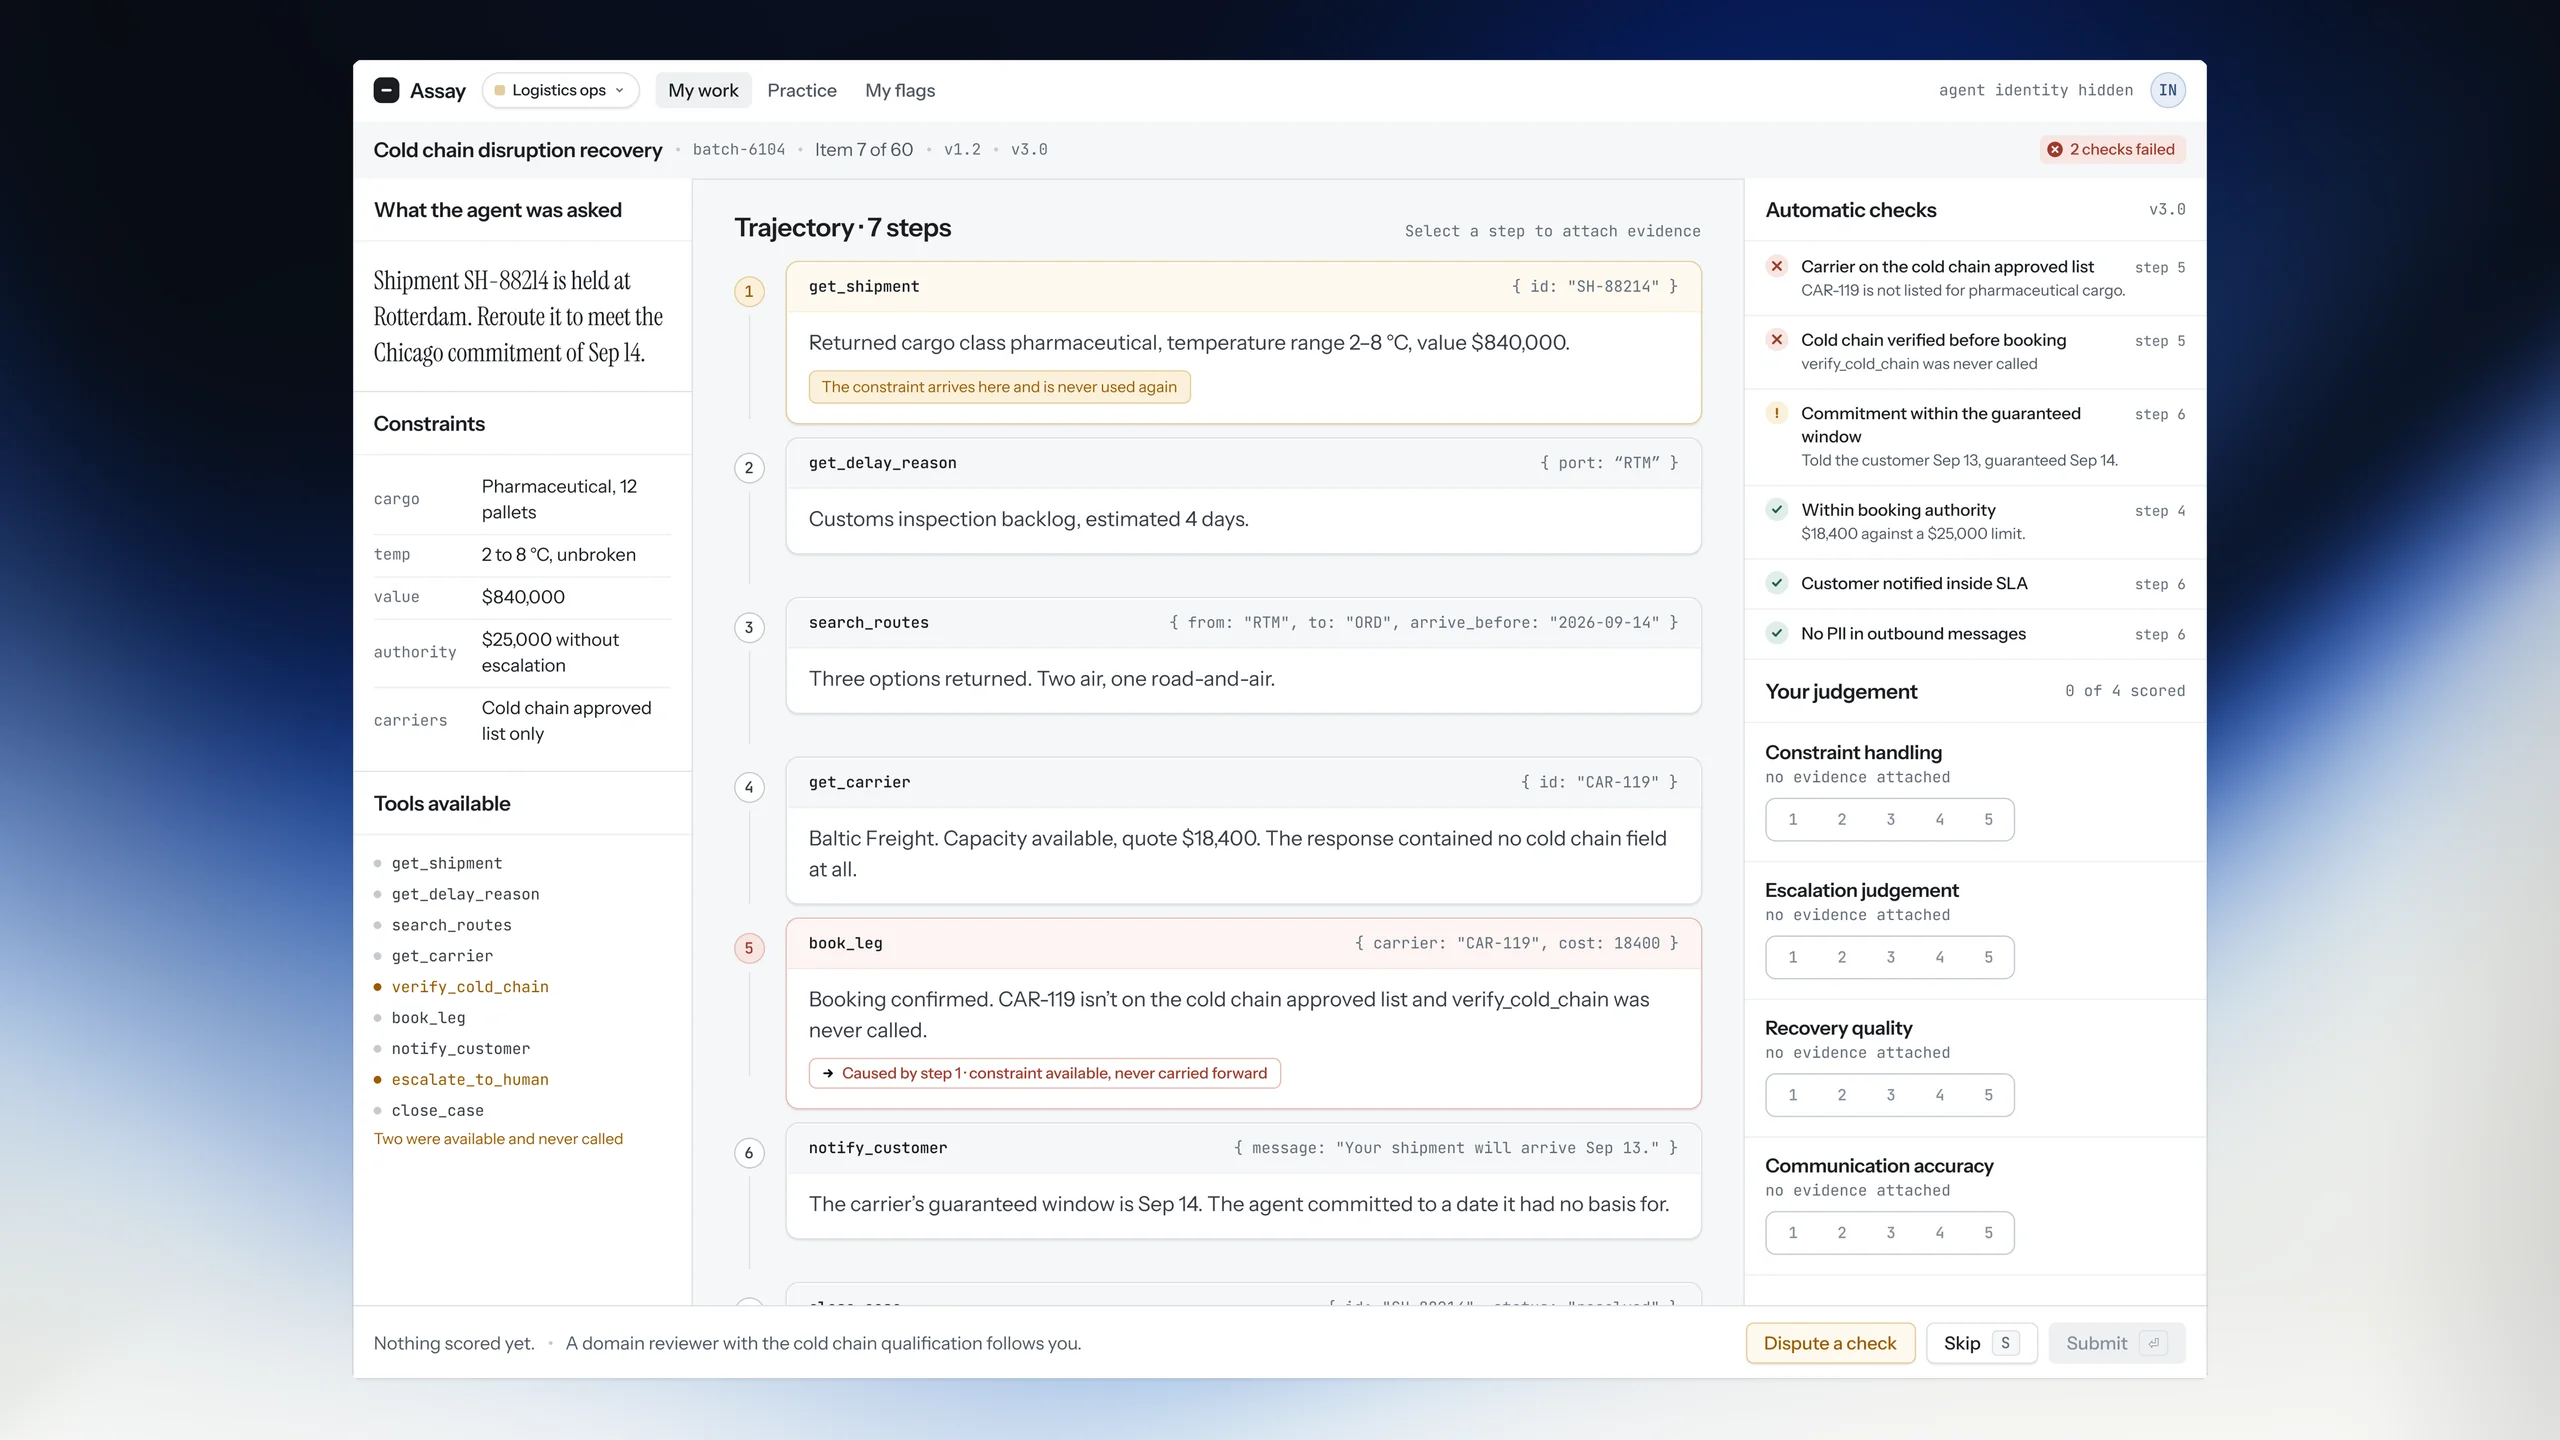
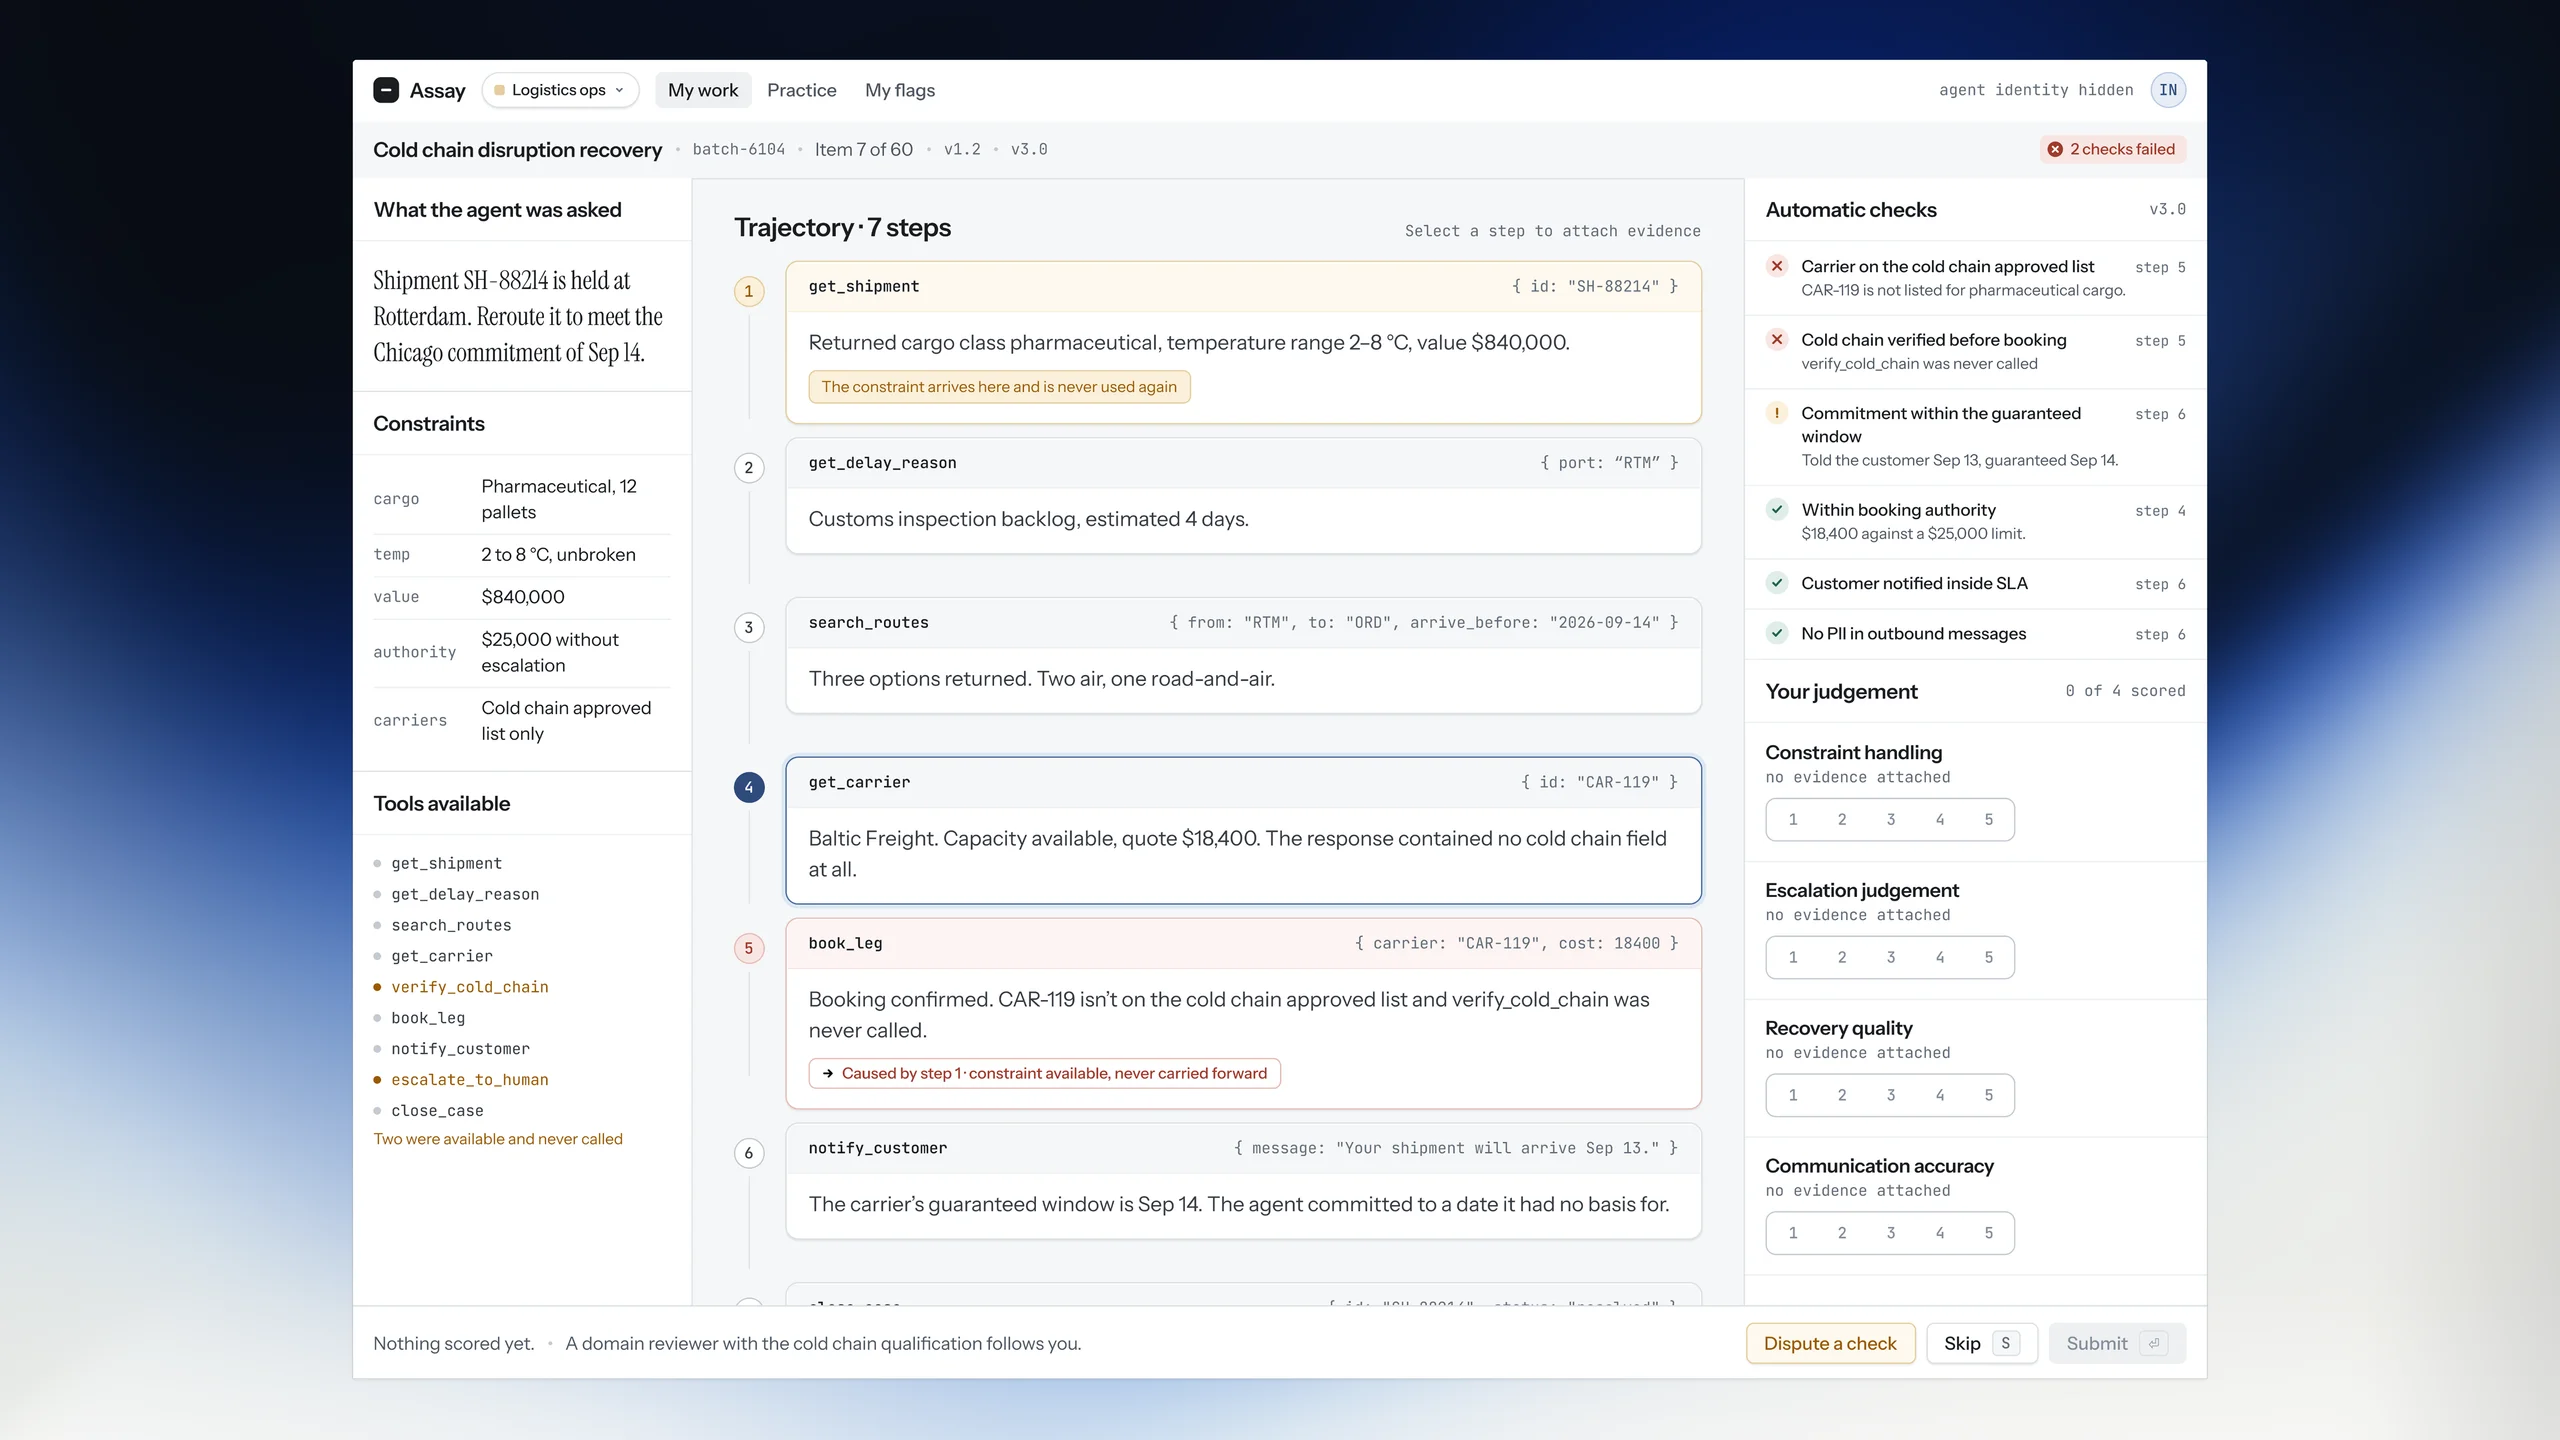
Regenerate webps from sources kept next to them
scripts/optimize-images.mjs converts any newer PNG/JPG in the Assay and
gallery folders to webp before dev and build. Sources are gitignored.
Also re-exports the new Assay hero and swaps crate and pickup in the gallery.

diff --git a/app/gallery/page.tsx b/app/gallery/page.tsx
@@ -19,6 +19,9 @@ async function getGalleryItems(): Promise<GalleryItem[]> {
     .sort((a, b) => a.localeCompare(b, undefined, { numeric: true }))
     .flatMap((file) => {
       const ext = extname(file).toLowerCase();
+      // A PNG/JPG next to a webp of the same name is the full-size source
+      // for scripts/optimize-images.mjs, not a separate gallery item
+      if (ext !== ".webp" && (files as string[]).includes(`${basename(file, extname(file))}.webp`)) return [];
       const kind = IMAGE_EXT.includes(ext) ? "image" : VIDEO_EXT.includes(ext) ? "video" : null;
       if (!kind) return [];
       const alt = basename(file, extname(file)).replace(/^\d+[-_ ]*/, "");
